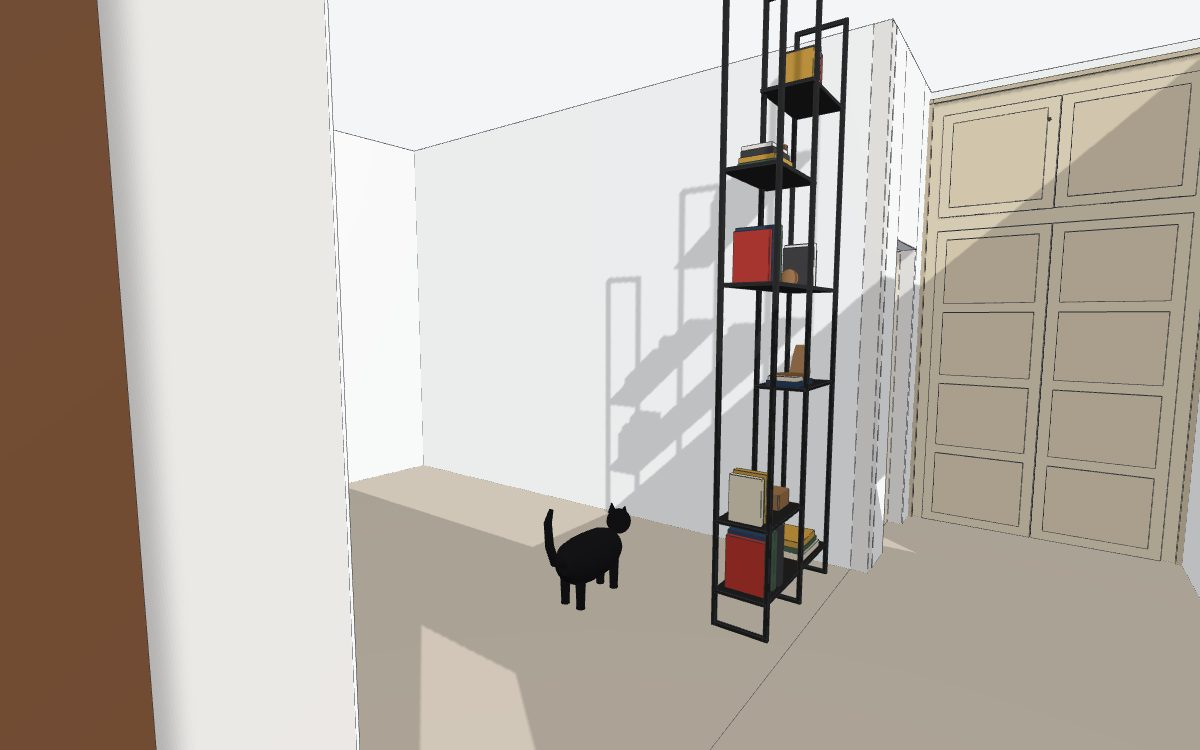
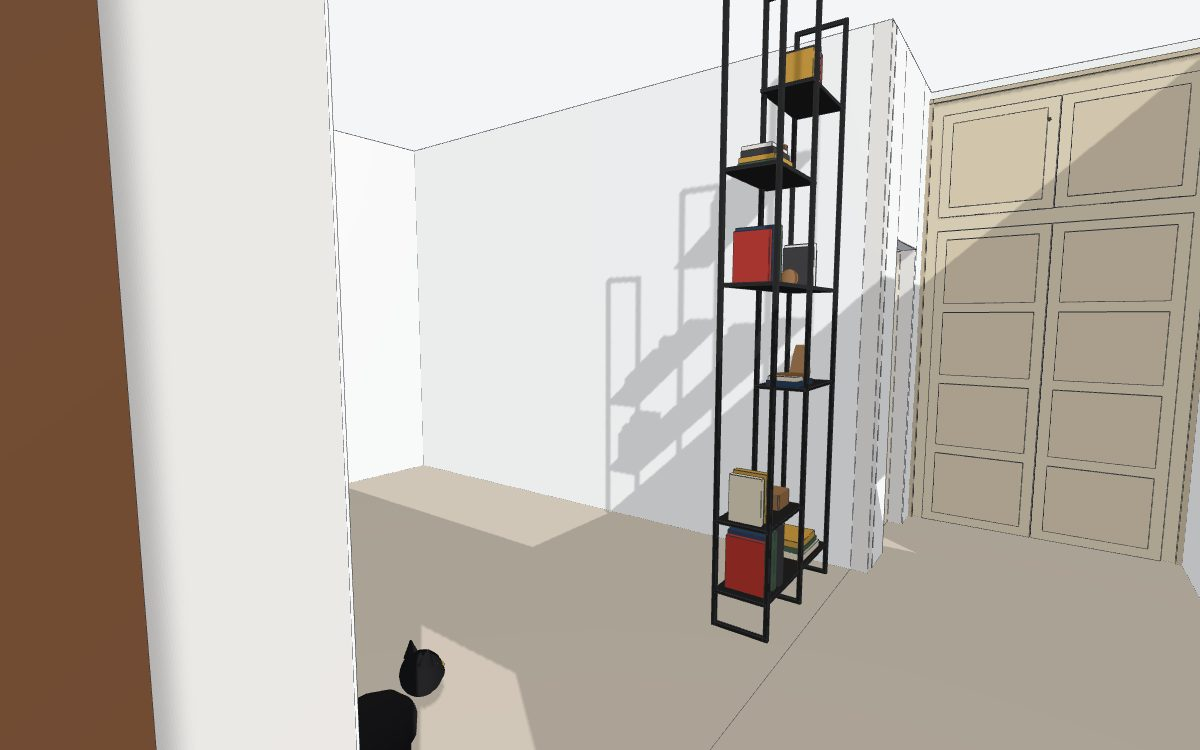
Base: remove the EKENAESET armchair test
Claude-Session: https://claude.ai/code/session_017Czcnh6xzZxgGSwco7M1Pu

Changed region(s): [[0.2775, 0.8587, 0.37, 1.0], [0.4317, 0.6747, 0.5242, 0.828]]

diff --git a/projects/casa-poggi/house.js b/projects/casa-poggi/house.js
@@ -3,7 +3,7 @@
 // Source: floor plan PDF "Planimetria_Casa_Poggi_Milano_modificata" (stato di fatto). "measured" = printed on the drawing, "estimate" = guessed.
 // Basic shell only: walls, openings, floor, balconies. No furniture, no materials yet (neutral colours).
 const path = require('path');
-const kit = require('../../scripts/scene-kit').createScene({ defaultOn: ['porte', 'armadio', 'porta-bagno', 'pittura', 'condizionatore', 'lampada-terra', 'gatto', 'libreria', 'poltrona'] });
+const kit = require('../../scripts/scene-kit').createScene({ defaultOn: ['porte', 'armadio', 'porta-bagno', 'pittura', 'condizionatore', 'lampada-terra', 'gatto', 'libreria'] });
 const { box, wall, slab, tube, rbox, group, defGroup, light } = kit;
 
 // ---------- dimensions (cm) ----------
@@ -338,39 +338,6 @@ const balcony = (n, x0, x1, y0, y1, side) => {
     leaf('Nord_b', [xo + s2, y1 - c], [xo, y1 - 2 * c]);
   });
   kit.items.filter(i => i.n.endsWith('_Vetro')).forEach(i => { i.ne = 1; });
-}
-
-// armchair + footstool, IKEA EKENAESET (oak-effect legs and arm caps, Kilanda light beige fabric), in the camera,
-// back against the west wall, facing east. Armchair 64 w x 78 d x 76 h, seat 56 x 50 at 45, arms 63, free space under 22   web search (IKEA ES / CN pages)
-// footstool 56 x 40 x 42   estimate (only the 61 x 45 x 17 cm package is published)
-// leaf names start with "Ekenaset" and carry no digits: armchair and footstool move as one piece
-{ const OAK = [196, 158, 108, 255], FAB = [222, 212, 192, 255], xb = XC0 + 3, xf = xb + 78, y0 = 30, y1 = y0 + 64, ZL = 22;
-  const bar = (n, p, r = 1.6) => tube(`/Ekenaset/Ekenaset_${n}`, OAK, p, p.map(() => r), 10);
-  defGroup('poltrona', 'Poltrona e poggiapiedi EKENÄSET (IKEA)', 'Arredi');
-  group('poltrona', () => {
-    // open oak side frames (from the product photo): front leg straight up to the arm, rear leg slanting back, side rail, flat arm cap
-    for (const [s, y] of [['Sx', y1 - 2], ['Dx', y0 + 2]]) {
-      bar(`Gamba_Ant_${s}`, [[xf - 10, y, 0], [xf - 9, y, 60]], 1.8);
-      bar(`Gamba_Post_${s}`, [[xb + 4, y, 0], [xb + 12, y, 32], [xb + 18, y, 60]], 1.8);
-      bar(`Traverso_${s}`, [[xb + 10, y, 28], [xf - 10, y, 28]], 1.5);
-      rbox(`/Ekenaset/Ekenaset_Bracciolo_${s}`, OAK, [xb + 14, y - 2.5, 60, xf, y + 2.5, 62.5], 1.2, 0.8);
-    }
-    box('/Ekenaset/Ekenaset_Traverso_Fronte', OAK, xf - 12, y0 + 2, 24, xf - 9, y1 - 2, 32);
-    box('/Ekenaset/Ekenaset_Traverso_Retro', OAK, xb + 10, y0 + 2, 26, xb + 13, y1 - 2, 32);
-    rbox('/Ekenaset/Ekenaset_Seduta', FAB, [xf - 58, y0 + 4.5, 32, xf - 6, y1 - 4.5, 45], 2, 3);
-    // reclined back cushion: stacked slices stepping back (the viewer has no rotation)
-    for (const [k, z0, z1, dx] of [['a', 40, 50, 0], ['b', 50, 59, 3], ['c', 59, 68, 6], ['d', 68, 76, 9]])
-      rbox(`/Ekenaset/Ekenaset_Schienale_${k}`, FAB, [xb + 22 - dx, y0 + 5, z0, xb + 34 - dx, y1 - 5, z1], 2, k === 'd' ? 3 : 0);
-    kit.items.filter(i => i.n.startsWith('/Ekenaset/Ekenaset_Schienale')).forEach(i => { i.ne = 1; });
-    // footstool in front of the armchair: four splayed oak legs, two side rails, thick fabric cushion
-    const px0 = xf + 15, px1 = px0 + 40, py0 = (y0 + y1) / 2 - 28, py1 = py0 + 56;
-    for (const [s, y, dy] of [['Sx', py1 - 5, 2], ['Dx', py0 + 5, -2]]) {
-      bar(`Pouf_Gamba_Ant_${s}`, [[px1 - 1, y + dy, 0], [px1 - 6, y, 27]], 1.6);
-      bar(`Pouf_Gamba_Post_${s}`, [[px0 + 1, y + dy, 0], [px0 + 6, y, 27]], 1.6);
-      bar(`Pouf_Traverso_${s}`, [[px0 + 4, y, 14], [px1 - 4, y, 14]], 1.3);
-    }
-    rbox('/Ekenaset/Ekenaset_Pouf_Cuscino', FAB, [px0, py0, 27, px1, py1, 42], 2, 3);
-  });
 }
 
 // ALTERNATIVE-VERSION OBJECT (casa-poggi-gabbia-cucina): kept here hidden (its group is off by default), as the rule asks
